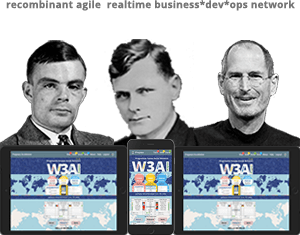
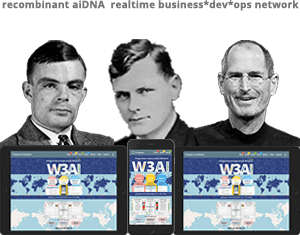
added aiDNA / aiRNA to terms png

Changed region(s): [[0.0, 0.0, 1.0, 0.0596], [0.48, 0.7745, 0.51, 0.8043]]

diff --git a/src/app/welcome/welcome.component.html b/src/app/welcome/welcome.component.html
@@ -336,7 +336,7 @@
         </div>
 
         <div id="terms-dna">
-          <img id="owners-dna" src="/assets/img/project-service-owners-dna-330.png">
+          <img id="owners-dna" src="/assets/img/aiDNA-project-service-owners-330.png">
         </div>
 
         <div id="pairing" fxLayout="row" fxLayoutGap="0px" fxLayoutAlign="center center">
@@ -798,7 +798,7 @@
       </div>
     </section>
 
-    <h1>self empowered agile Teams</h1>
+    <h1>self empowered aiTeams</h1>
     <p>bring</p>
     <p><b>customers * investors * associates</b></p>
     <p>on the G8 Growth Engine</p>
